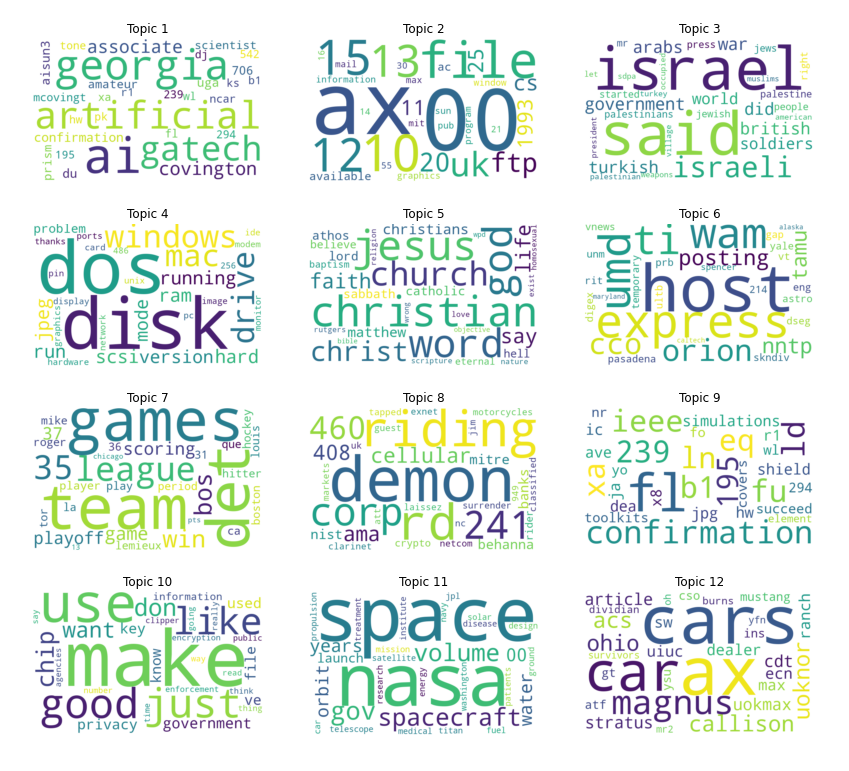
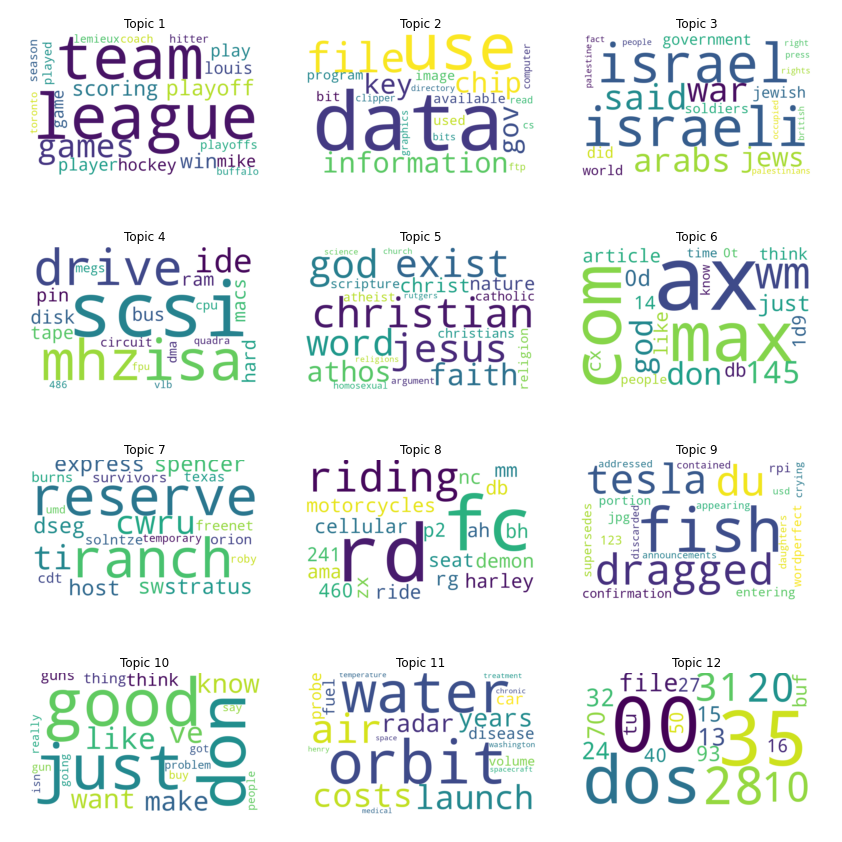
Use Dirichlet distribution

diff --git a/examples/prodlda.py b/examples/prodlda.py
@@ -62,17 +62,11 @@ class HaikuEncoder:
 
         # NB: here we set `create_scale=False` and `create_offset=False` to reduce
         # the number of learning parameters
-        h_mu = hk.Linear(self._num_topics)(h)
-        logtheta_loc = hk.BatchNorm(
+        h = hk.Linear(self._num_topics)(h)
+        log_concentration = hk.BatchNorm(
             create_scale=False, create_offset=False, decay_rate=0.9
-        )(h_mu, is_training)
-
-        h_sigma = hk.Linear(self._num_topics)(h)
-        logtheta_logvar = hk.BatchNorm(
-            create_scale=False, create_offset=False, decay_rate=0.9
-        )(h_sigma, is_training)
-        logtheta_scale = jnp.exp(0.5 * logtheta_logvar)
-        return logtheta_loc, logtheta_scale
+        )(h, is_training)
+        return jnp.exp(log_concentration)
 
 
 class HaikuDecoder:
@@ -84,10 +78,9 @@ class HaikuDecoder:
         dropout_rate = self._dropout_rate if is_training else 0.0
         h = hk.dropout(hk.next_rng_key(), dropout_rate, inputs)
         h = hk.Linear(self._vocab_size, with_bias=False)(h)
-        h = hk.BatchNorm(create_scale=False, create_offset=False, decay_rate=0.9)(
+        return hk.BatchNorm(create_scale=False, create_offset=False, decay_rate=0.9)(
             h, is_training
         )
-        return jax.nn.softmax(h)
 
 
 class FlaxEncoder(nn.Module):
@@ -102,22 +95,15 @@ class FlaxEncoder(nn.Module):
         h = nn.softplus(nn.Dense(self.hidden)(h))
         h = nn.Dropout(self.dropout_rate, deterministic=not is_training)(h)
 
-        h_mu, h_sigma = nn.Dense(self.num_topics)(h), nn.Dense(self.num_topics)(h)
+        h = nn.Dense(self.num_topics)(h)
 
-        logtheta_loc = nn.BatchNorm(
+        log_concentration = nn.BatchNorm(
             use_bias=False,
             use_scale=False,
             momentum=0.9,
             use_running_average=not is_training,
-        )(h_mu)
-        logtheta_logvar = nn.BatchNorm(
-            use_bias=False,
-            use_scale=False,
-            momentum=0.9,
-            use_running_average=not is_training,
-        )(h_sigma)
-        logtheta_scale = jnp.exp(0.5 * logtheta_logvar)
-        return logtheta_loc, logtheta_scale
+        )(h)
+        return jnp.exp(log_concentration)
 
 
 class FlaxDecoder(nn.Module):
@@ -128,13 +114,12 @@ class FlaxDecoder(nn.Module):
     def __call__(self, inputs, is_training):
         h = nn.Dropout(self.dropout_rate, deterministic=not is_training)(inputs)
         h = nn.Dense(self.vocab_size, use_bias=False)(h)
-        h = nn.BatchNorm(
+        return nn.BatchNorm(
             use_bias=False,
             use_scale=False,
             momentum=0.9,
             use_running_average=not is_training,
         )(h)
-        return nn.softmax(h)
 
 
 def model(docs, hyperparams, is_training=False, nn_framework="flax"):
@@ -171,22 +156,18 @@ def model(docs, hyperparams, is_training=False, nn_framework="flax"):
         "documents", docs.shape[0], subsample_size=hyperparams["batch_size"]
     ):
         batch_docs = numpyro.subsample(docs, event_dim=1)
-        logtheta = numpyro.sample(
-            "logtheta",
-            dist.Normal(0, 1).expand((hyperparams["num_topics"],)).to_event(1),
+        theta = numpyro.sample(
+            "theta", dist.Dirichlet(jnp.ones(hyperparams["num_topics"]))
         )
-        theta = jax.nn.softmax(logtheta)
 
         if nn_framework == "flax":
-            count_param = decoder(
-                theta, is_training, rngs={"dropout": numpyro.prng_key()}
-            )
+            logits = decoder(theta, is_training, rngs={"dropout": numpyro.prng_key()})
         elif nn_framework == "haiku":
-            count_param = decoder(numpyro.prng_key(), theta, is_training)
+            logits = decoder(numpyro.prng_key(), theta, is_training)
 
         total_count = batch_docs.sum(-1)
         numpyro.sample(
-            "obs", dist.Multinomial(total_count, count_param), obs=batch_docs
+            "obs", dist.Multinomial(total_count, logits=logits), obs=batch_docs
         )
 
 
@@ -236,17 +217,13 @@ def guide(docs, hyperparams, is_training=False, nn_framework="flax"):
         batch_docs = numpyro.subsample(docs, event_dim=1)
 
         if nn_framework == "flax":
-            logtheta_loc, logtheta_scale = encoder(
+            concentration = encoder(
                 batch_docs, is_training, rngs={"dropout": numpyro.prng_key()}
             )
         elif nn_framework == "haiku":
-            logtheta_loc, logtheta_scale = encoder(
-                numpyro.prng_key(), batch_docs, is_training
-            )
+            concentration = encoder(numpyro.prng_key(), batch_docs, is_training)
 
-        numpyro.sample(
-            "logtheta", dist.Normal(logtheta_loc, logtheta_scale).to_event(1)
-        )
+        numpyro.sample("theta", dist.Dirichlet(concentration))
 
 
 def load_data():
@@ -342,7 +319,7 @@ if __name__ == "__main__":
     parser.add_argument("-t", "--num-topics", nargs="?", default=12, type=int)
     parser.add_argument("--batch-size", nargs="?", default=32, type=int)
     parser.add_argument("--learning-rate", nargs="?", default=1e-3, type=float)
-    parser.add_argument("--hidden", nargs="?", default=100, type=int)
+    parser.add_argument("--hidden", nargs="?", default=200, type=int)
     parser.add_argument("--dropout-rate", nargs="?", default=0.2, type=float)
     parser.add_argument(
         "-dp",

diff --git a/numpyro/distributions/kl.py b/numpyro/distributions/kl.py
@@ -30,8 +30,9 @@ import warnings
 
 from jax import lax
 import jax.numpy as jnp
+from jax.scipy.special import digamma, gammaln
 
-from numpyro.distributions.continuous import Normal
+from numpyro.distributions.continuous import Dirichlet, Normal
 from numpyro.distributions.distribution import (
     Delta,
     Distribution,
@@ -196,3 +197,15 @@ def _kl_normal_normal(p, q):
     var_ratio = jnp.square(p.scale / q.scale)
     t1 = jnp.square((p.loc - q.loc) / q.scale)
     return 0.5 * (var_ratio + t1 - 1 - jnp.log(var_ratio))
+
+
+@register_kl(Dirichlet, Dirichlet)
+def _kl_dirichlet_dirichlet(p, q):
+    # From http://bariskurt.com/kullback-leibler-divergence-between-two-dirichlet-and-beta-distributions/
+    sum_p_concentration = p.concentration.sum(-1)
+    sum_q_concentration = q.concentration.sum(-1)
+    t1 = gammaln(sum_p_concentration) - gammaln(sum_q_concentration)
+    t2 = (gammaln(p.concentration) - gammaln(q.concentration)).sum(-1)
+    t3 = p.concentration - q.concentration
+    t4 = digamma(p.concentration) - digamma(sum_p_concentration)[..., None]
+    return t1 - t2 + (t3 * t4).sum(-1)
